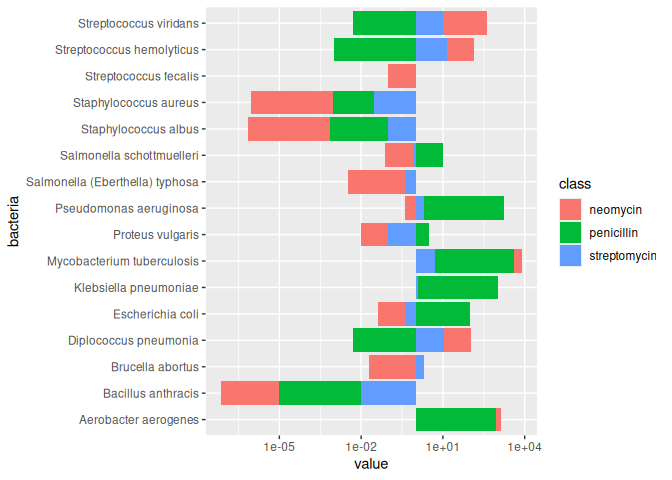
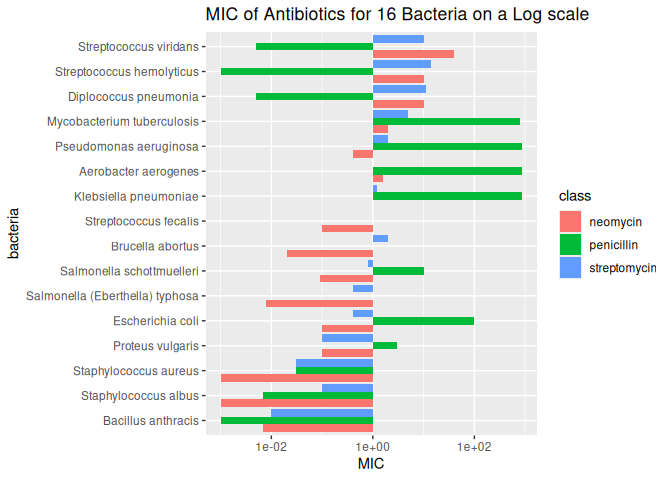
Challenge Corrections

Changed region(s): [[0.0312, 0.0, 0.875, 1.0], [0.8125, 0.375, 1.0, 0.5938], [0.0, 0.4062, 0.0312, 0.5625]]

diff --git a/data-science-curriculum-build/data-science-curriculum-build/challenges/c05-antibiotics-assignment.md b/data-science-curriculum-build/data-science-curriculum-build/challenges/c05-antibiotics-assignment.md
@@ -209,7 +209,11 @@ df_longer
 df_longer %>%
   ggplot(aes(value, bacteria, color = class, shape = gram)) +
   scale_x_log10() +
-  geom_point(size = 3)
+  geom_point(size = 3) +
+  labs(
+    title = "MIC of Antibiotics for 16 Bacteria on a log scale",
+    x = "MIC"
+  )
 ```
 
 ![](c05-antibiotics-assignment_files/figure-gfm/q1.1-1.png)<!-- -->
@@ -227,17 +231,19 @@ your other visuals.
 ``` r
 # WRITE YOUR CODE HERE
 df_longer %>%
-  ggplot(aes(gram, value)) +
-  geom_violin() +
-  geom_point(aes(color = bacteria)) +
-  scale_y_log10() +
+  group_by(class) %>%
+  mutate(extreme = value == min(value) | value == max(value)) %>%
+  ungroup() %>%
+  mutate(bacteria = fct_reorder(bacteria, value)) %>%
+  ggplot(aes(value, bacteria, shape = gram)) +
+  geom_point(aes(color = extreme)) +
+  scale_color_manual(values = c("FALSE" = "black", "TRUE" = "red"), guide = "none") +
+  scale_x_log10() +
   facet_grid(cols = vars(class)) +
-  geom_label_repel(
-    data = .%>%
-      group_by(class) %>%
-      filter(value == min(value) | value == max(value)) %>%
-      ungroup(),
-    aes(label = bacteria), size = 2.5)
+  labs(
+    title = "MIC of Antibiotics for 16 Bacteria on a log scale",
+    x = "MIC"
+  )
 ```
 
 ![](c05-antibiotics-assignment_files/figure-gfm/q1.2-1.png)<!-- -->
@@ -254,9 +260,14 @@ your other visuals.
 ``` r
 # WRITE YOUR CODE HERE
 df_longer %>%
+  mutate(bacteria = fct_reorder(bacteria, value)) %>%
   ggplot(aes(value, bacteria, fill = class)) +
   scale_x_log10() +
-  geom_col() 
+  geom_col(position = "dodge") +
+  labs(
+    title = "MIC of Antibiotics for 16 Bacteria on a Log scale",
+    x = "MIC"
+  )
 ```
 
 ![](c05-antibiotics-assignment_files/figure-gfm/q1.3-1.png)<!-- -->
@@ -276,7 +287,11 @@ df_longer %>%
   filter(class == "penicillin") %>%
   ggplot(aes(value, bacteria, color = gram)) +
   geom_point() +
-  scale_x_log10()
+  scale_x_log10() +
+  labs(
+    title = "MIC for Penicillin against 16 bacteria on a log scale",
+    x = "MIC"
+  )
 ```
 
 ![](c05-antibiotics-assignment_files/figure-gfm/q1.4-1.png)<!-- -->
@@ -293,16 +308,101 @@ your other visuals.
 ``` r
 # WRITE YOUR CODE HERE
 df_longer %>%
+  mutate(bacteria = fct_reorder(bacteria, value)) %>%
   ggplot(aes(bacteria, value, color = class, group = class)) +
   geom_line() +
   geom_point() +
   scale_y_log10() +
   theme(
     axis.text.x = element_text(angle = -45, hjust = 0, vjust = 1)
+  ) +
+  labs(
+    title = "MIC of Antibiotics for 16 Bacteria on a Log scale",
+    y = "MIC"
   )
 ```
 
 ![](c05-antibiotics-assignment_files/figure-gfm/q1.5-1.png)<!-- -->
+
+``` r
+# mic_wide <- df_longer %>%
+#   mutate(log_value = log10(value)) %>%
+#   select(bacteria, class, log_value) %>%
+#   pivot_wider(names_from = class, values_from = log_value) %>%
+#   column_to_rownames("bacteria")
+# 
+# mic_wide
+```
+
+``` r
+# df_longer %>%
+#   filter(str_detect(bacteria, "Strept|Diplo")) %>%
+#   ggplot(aes(bacteria, value, color = class, group = class)) +
+#   geom_line() +
+#   geom_point(size = 3) +
+#   theme(axis.text.x = element_text(angle = -45, hjust = 0, vjust = 1)) +
+#   labs(y = "MIC (µg/mL)",
+#        x = "Bacteria Species")
+# 
+# df_longer %>%
+#   filter(str_detect(bacteria, "Strept|Diplo")) %>%
+#   ggplot(aes(bacteria, value, fill = class)) +
+#   geom_col() +
+#   theme(axis.text.x = element_text(angle = -45, hjust = 0, vjust = 1)) +
+#     labs(y = "MIC (µg/mL)",
+#        x = "Bacteria Species")
+```
+
+``` r
+# df_new <- data.frame(
+#   Streptococcus_Bacteria = c("constellatus", "agalactiae", "anginosus", "uberis", "dysgalactiae"),
+#   Amoxicillin_016 = c(1/53, 9/388, 4/164, 3/294, 124/234),
+#   Benzylpenicillin_016 = c(4/53, 188/3235, 51/294, 38/293, 16/234),
+#   Amoxicillin_125 = c(17/53, 19/388, 60/164, 17/294, 0/234),
+#   Benzylpenicillin_125 = c(14/53, 81/3235, 20/294, 15/293, 0/234)
+# )
+# df_new %>%
+#   pivot_longer(
+#     names_to = "mic_type",
+#     values_to = "values",
+#     cols = (-Streptococcus_Bacteria)
+#   ) %>%
+#   group_by(mic_type) %>%
+#   ggplot(aes(Streptococcus_Bacteria, values, fill = mic_type, group = mic_type)) +
+#   geom_col() +
+#   theme(axis.text.x = element_text(angle = -45, hjust = 0, vjust = 1)) +
+#       labs(y = "MIC (µg/mL)",
+#        x = "Bacteria Species")
+```
+
+``` r
+# df_trick <- data.frame(
+#   Streptococcus_Bacteria = c("constellatus", "agalactiae", "anginosus", "uberis", "dysgalactiae", "kingae"),
+#   Amoxicillin_0.16 = c(1/53, 9/388, 4/164, 3/294, 124/234, 2/202),
+#   Benzylpenicillin_016 = c(4/53, 188/3235, 51/294, 38/293, 16/234, 71/202),
+#   Amoxicillin_125 = c(17/53, 19/388, 60/164, 17/294, 0/234, 65/202),
+#   Benzylpenicillin_125 = c(14/53, 81/3235, 20/294, 15/293, 0/234, 15/202)
+# )
+# df_edit <- df_trick %>%
+#   pivot_longer(
+#     cols = -Streptococcus_Bacteria,
+#     names_to = "mic_type",
+#     values_to = "values"
+#   ) %>%
+#   mutate(Streptococcus_Bacteria = fct_relevel(Streptococcus_Bacteria, "kingae"))
+# 
+# df_edit %>%
+#   ggplot(aes(Streptococcus_Bacteria, values, fill = mic_type)) +
+#   geom_col(position = "dodge") +
+#   geom_vline(xintercept = 1.5, linetype = "dashed", color = "grey40") +
+#   labs(
+#     x = "Bacteria Species",
+#     y = "Observations at MIC concentration / total observations",
+#     fill = expression("MIC concentration (" * mu * "g/mL)")
+#   ) +
+#   theme_minimal() +
+#   theme(axis.text.x = element_text(angle = -45, hjust = 0, vjust = 1))
+```
 
 ### **q2** Assess your visuals
 
@@ -335,10 +435,11 @@ effective against negative gram stains, and is least effective against
 Aerobacter aerogenes. - Which of your visuals above (1 through 5) is
 **most effective** at helping to answer this question? - Visual 2. -
 Why? - The second visual is most effective at answering the questions as
-the box plots show the general trend of effectiveness for the gram
-strains. - To show the effectiveness against various bacteria, the graph
-uses a few labels to show the amount of antibiotic needed for some key
-bacteria genera.
+this one highlights in red the lowest and highest values for the MICs of
+each antibiotic. It also communicates gram strains clearly so you can
+see general trends in those as well. - To show the effectiveness against
+various bacteria, the graph uses a few labels to show the amount of
+antibiotic needed for some key bacteria genera.
 
 #### Guiding Question 2
 
@@ -355,7 +456,7 @@ Streptococcus family for all three antibiotics. This would suggest that
 it displays similar qualities to the rest of the bacteria in that
 family. - Which of your visuals above (1 through 5) is **most
 effective** at helping to answer this question? - visual 3. - Why? -
-Suprisingly the stacked bar chart works really well here. By looking at
+Suprisingly the dodged bar chart works really well here. By looking at
 the amount of each antibiotic needed for an MIC, you can see that what
 was Diplococcus pneumoniae closely matches up with both Streptococcus
 hemolyticus and Streptococcus viridans for all three of the values. -
